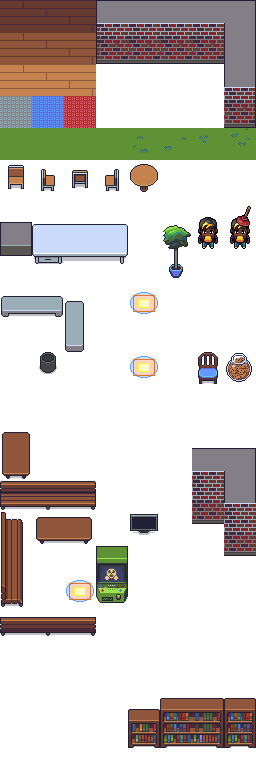
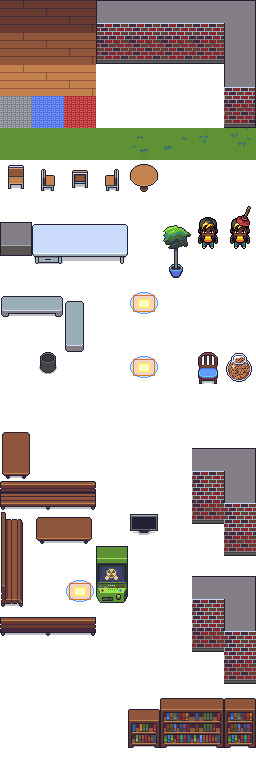
Tables 2.0

Changed region(s): [[0.75, 0.75, 1.0, 0.9062]]

diff --git a/tilesets/Gather Tables 2.x.tsx b/tilesets/Gather Tables 2.x.tsx
@@ -1,0 +1,4 @@
+<?xml version="1.0" encoding="UTF-8"?>
+<tileset version="1.4" tiledversion="1.4.3" name="Gather Tables 2.x" tilewidth="32" tileheight="32" tilecount="9000" columns="90">
+ <image source="gather_tables_2.0.png" width="2880" height="3200"/>
+</tileset>
